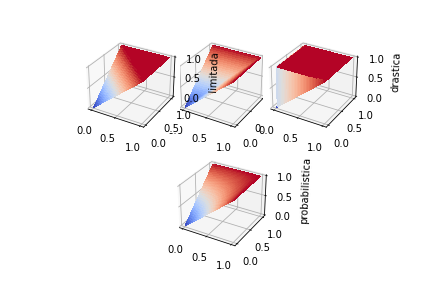
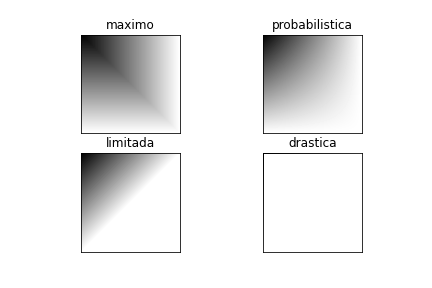
modifica ex2 para plot superficie

diff --git a/mod1/ex2.py b/mod1/ex2.py
@@ -54,27 +54,26 @@ surf_limitada = limitada(A, B)
 surf_drastica = drastica(A, B)
 
 # plot
-# fig = plt.figure()
-# ax = fig.add_subplot(2, 1, 1, projection='3d')
 fig, axs = plt.subplots(2, 2)
-axs[0, 0].plot_surface(A, B, surf_maximo, cmap=cm.coolwarm,
-                       linewidth=0, antialiased=False)
-axs[0, 0].set_zlabel('maximo')
+axs[0, 0].imshow(surf_maximo, cmap = 'gray')
+axs[0, 0].set_title('maximo')
+axs[0, 0].axes.get_xaxis().set_visible(False)
+axs[0, 0].axes.get_yaxis().set_visible(False)
 
-# ax = fig.add_subplot(2, 1, 2, projection='3d')
-# surf = ax.plot_surface(A, B, surf_probabilistica, cmap=cm.coolwarm,
-#                         linewidth=0, antialiased=False)
-# ax.set_zlabel('probabilistica')
+axs[0, 1].imshow(surf_probabilistica, cmap = 'gray')
+axs[0, 1].set_title('probabilistica')
+axs[0, 1].axes.get_xaxis().set_visible(False)
+axs[0, 1].axes.get_yaxis().set_visible(False)
 
-# ax = fig.add_subplot(2, 2, 1, projection='3d')
-# surf = ax.plot_surface(A, B, surf_limitada, cmap=cm.coolwarm,
-#                         linewidth=0, antialiased=False)
-# ax.set_zlabel('limitada')
+axs[1, 0].imshow(surf_limitada, cmap = 'gray')
+axs[1, 0].set_title('limitada')
+axs[1, 0].axes.get_xaxis().set_visible(False)
+axs[1, 0].axes.get_yaxis().set_visible(False)
 
-# ax = fig.add_subplot(2, 2, 2, projection='3d')
-# surf = ax.plot_surface(A, B, surf_drastica, cmap=cm.coolwarm,
-#                         linewidth=0, antialiased=False)
-# ax.set_zlabel('drastica')
+axs[1, 1].imshow(surf_drastica, cmap = 'gray')
+axs[1, 1].set_title('drastica')
+axs[1, 1].axes.get_xaxis().set_visible(False)
+axs[1, 1].axes.get_yaxis().set_visible(False)
 
 plt.savefig('fig/ex22.png')
 
